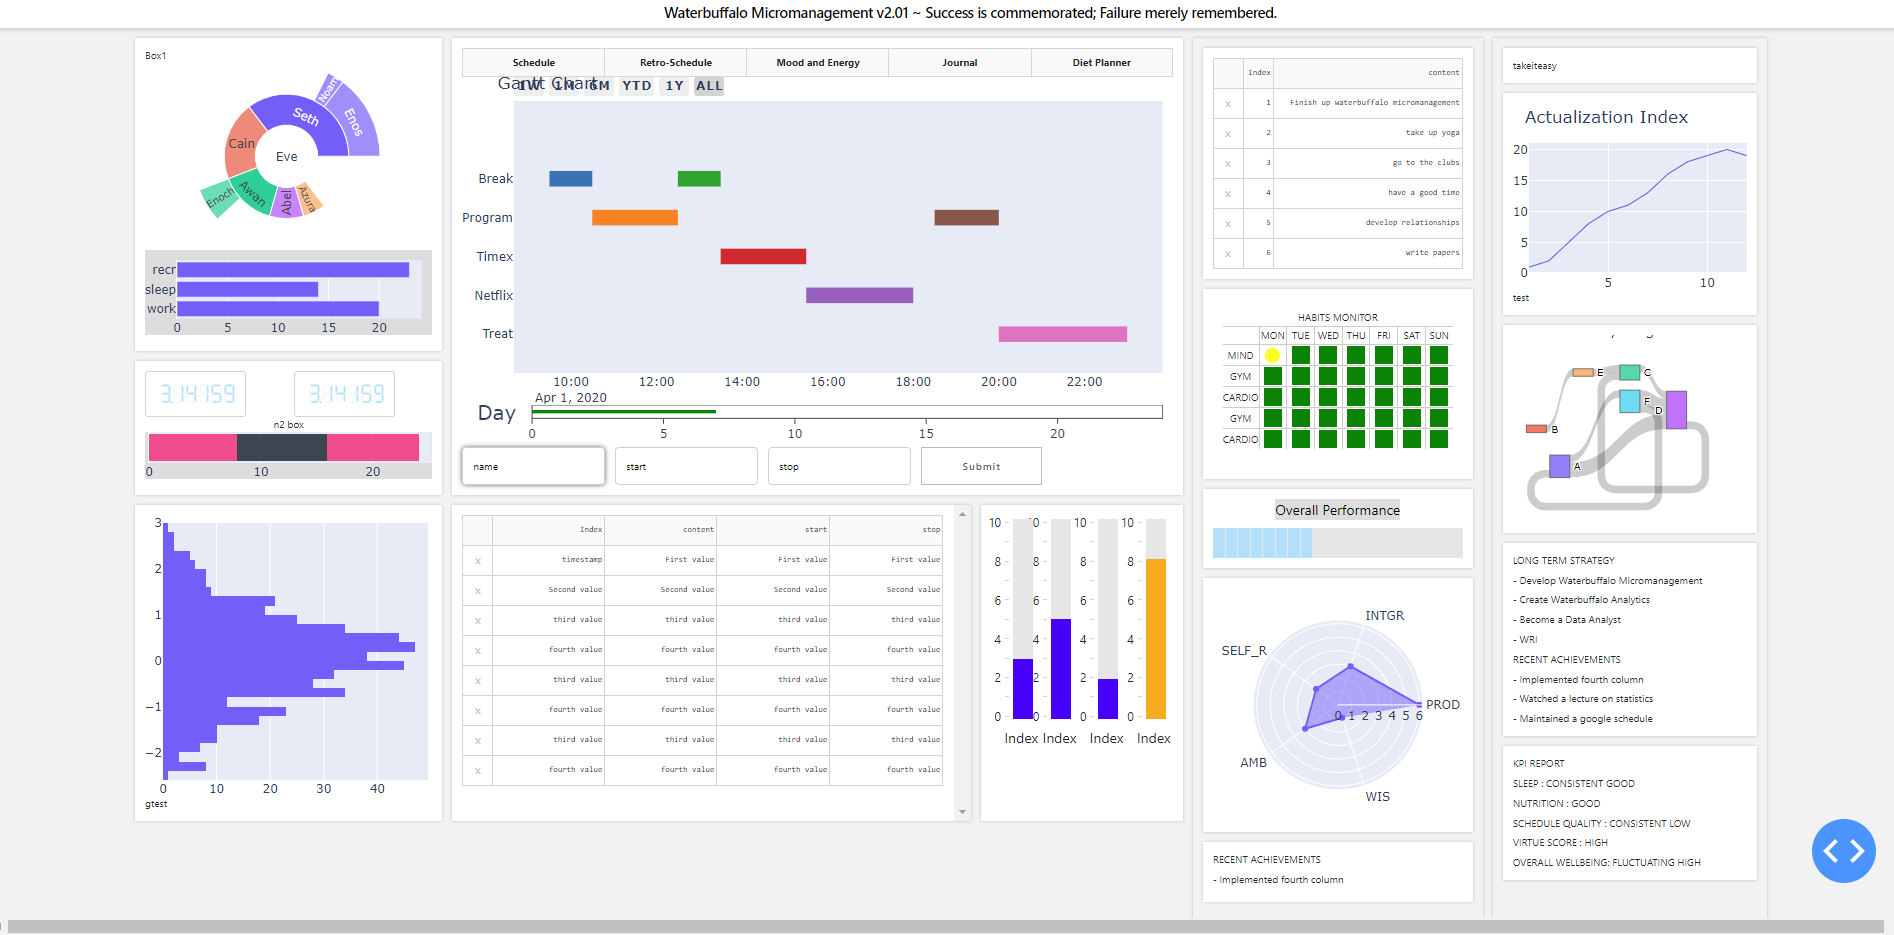
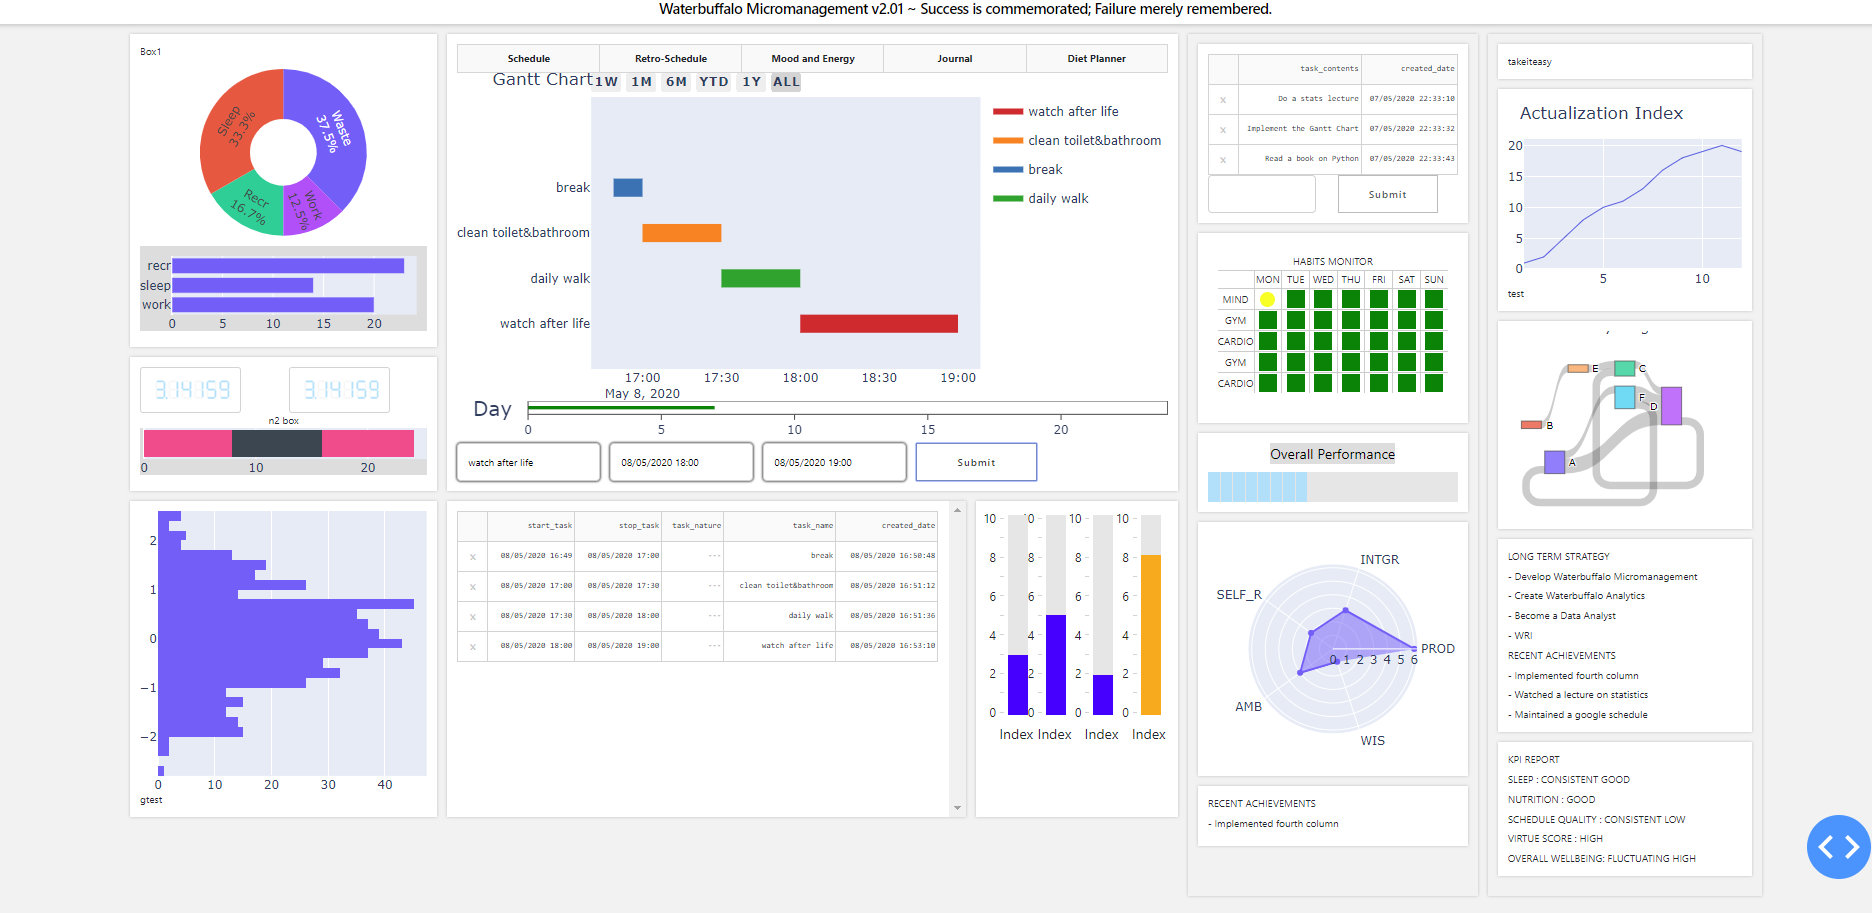
gantt_chart added

diff --git a/wms2B/index.py b/wms2B/index.py
@@ -100,7 +100,7 @@ index_page = html.Div([
                 html.Br(),
                 html.Div([
 
-                    dcc.Input(id='task_content', type='text', value= "name", style = {"box-shadow":"0 0 2px 1px #666"}),
+                    dcc.Input(id='task_content', type='text', value= "", style = {"box-shadow":"0 0 2px 1px #666"}),
                     dcc.Input(id='task_start', type='text', value=datetime.now().strftime("%d/%m/%Y %H:%M"), style = {"box-shadow":"0 0 2px 1px #666"}),
                     dcc.Input(id='task_stop', type='text',value=(datetime.now() + timedelta(hours=3)).strftime("%d/%m/%Y %H:%M"),style={"box-shadow": "0 0 2px 1px #666"}),
                     html.Button('Submit', id='submit-schedule', n_clicks=0),

diff --git a/wms2B/main.py b/wms2B/main.py
@@ -91,7 +91,7 @@ def delete_from_todo(previous, data, current):
 def update_output(n_clicks, task_contents, start_task, stop_task):
     # read from database
     base = pd.read_csv("gantt.csv")
-    bool = task_contents == "name"
+    bool = task_contents == ""
     if bool == True:
         dash.exceptions.PreventUpdate()
         return base.to_dict('records')
